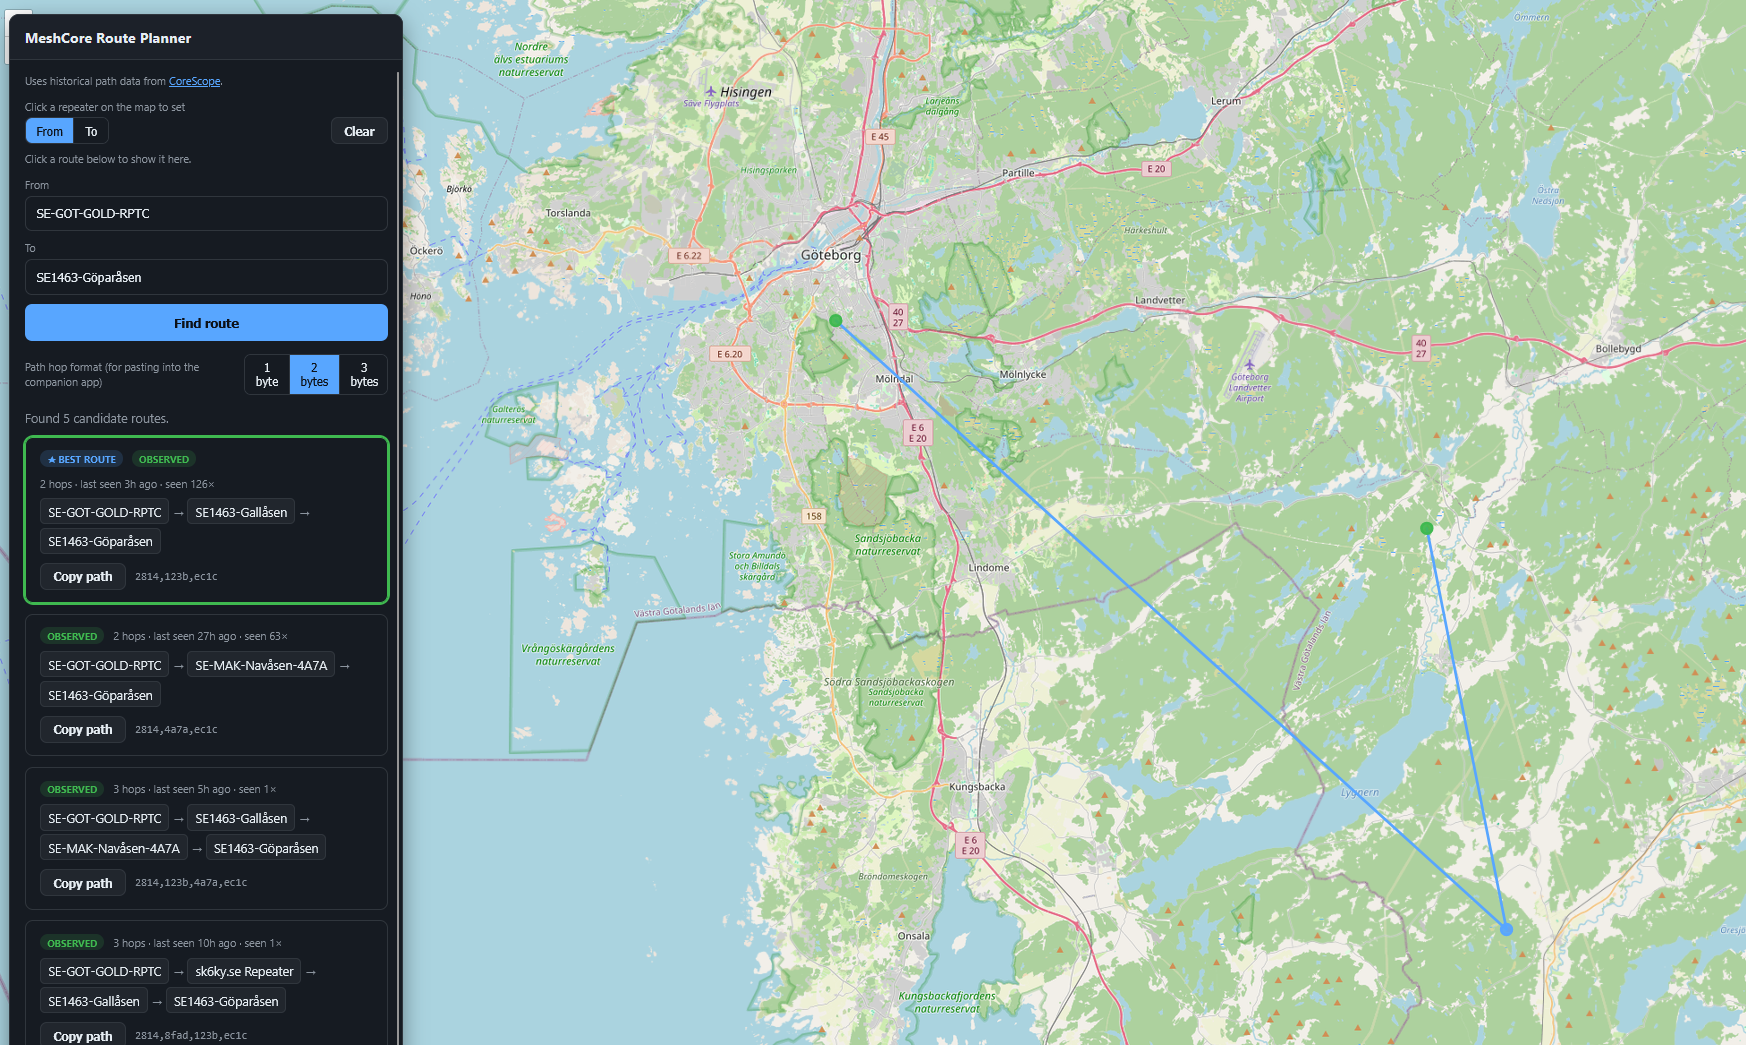
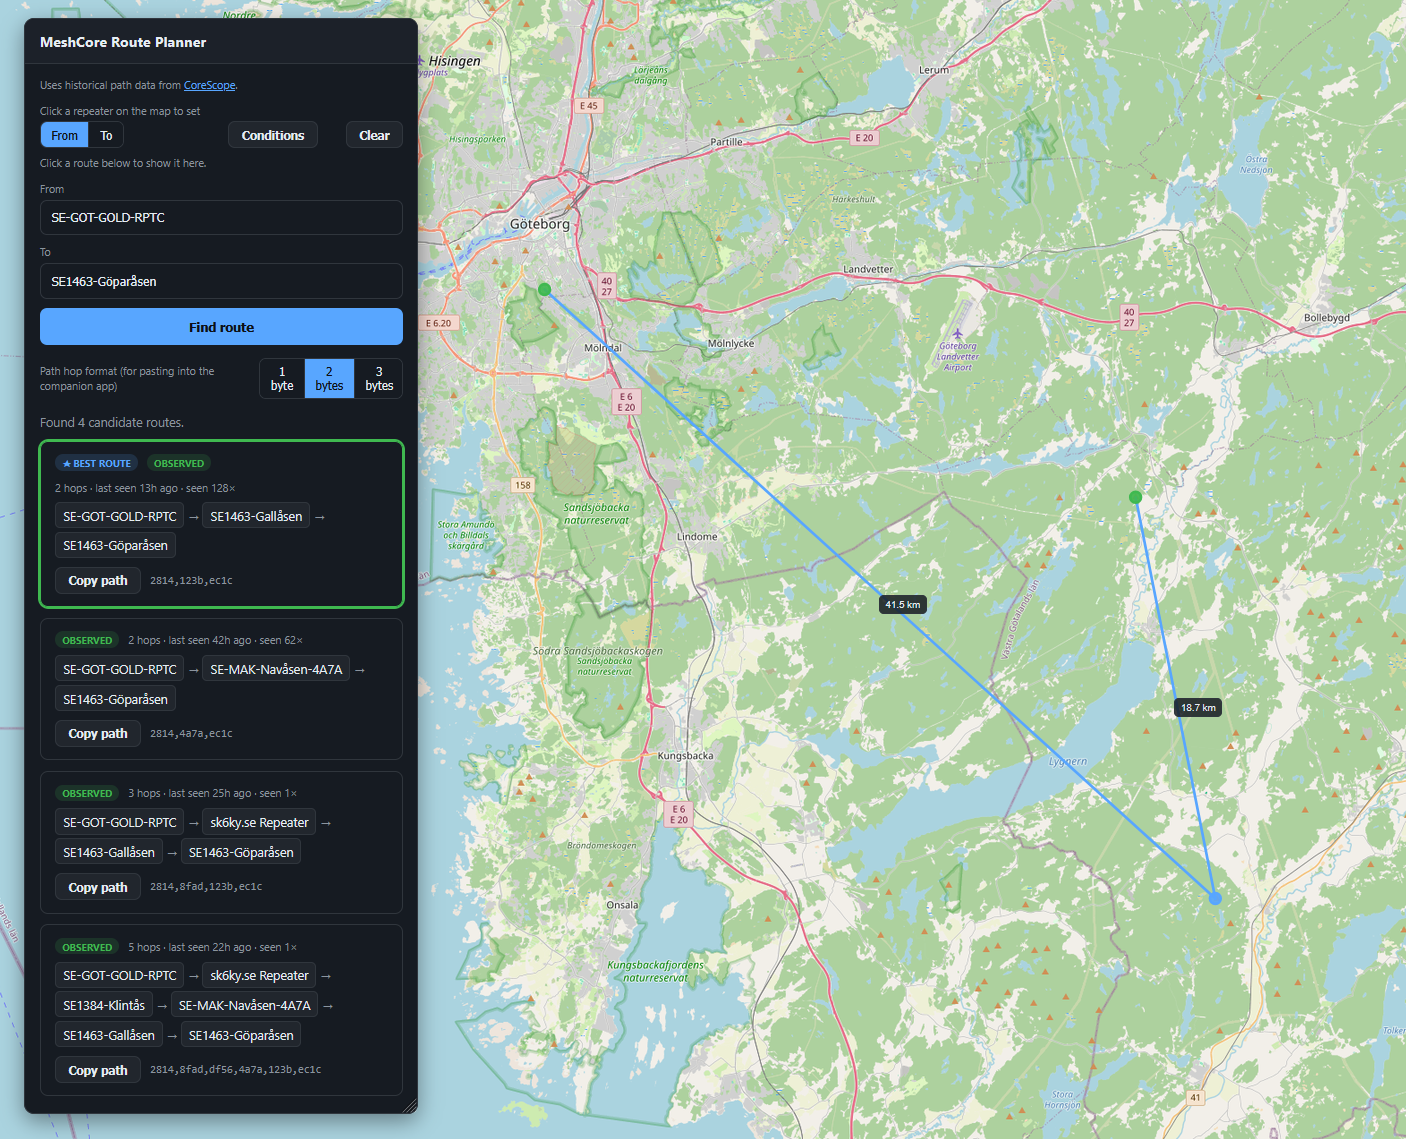
Added conditions screen + text

diff --git a/README.md b/README.md
@@ -8,9 +8,9 @@ A found route can be exported as a comma-separated hex-prefix string, ready to p
 
 ## Screenshots
 
-| Overview map | Pick From / To | Route results |
-|---|---|---|
-| ![Overview map with all repeaters](img/Screen1.png) | ![Picking a From and To repeater on the map](img/Screen2.png) | ![Candidate routes with the best one highlighted and drawn on the map](img/Screen3.png) |
+| Overview map | Pick From / To | Route results | Conditions (experimental) |
+|---|---|---|---|
+| ![Overview map with all repeaters](img/Screen1.png) | ![Picking a From and To repeater on the map](img/Screen2.png) | ![Candidate routes with the best one highlighted and drawn on the map, including segment distances](img/Screen3.png) | ![The experimental Atmospheric Conditions panel for the From/To nodes](img/Screen4.png) |
 
 ## Features
 
@@ -23,6 +23,7 @@ A found route can be exported as a comma-separated hex-prefix string, ready to p
 - **Copy path** — exports the full hop chain (origin through destination) as 1/2/3-byte hex prefixes for the MeshCore companion app.
 - **Node info popup** — click a hop or map marker to see name, role, public key, coordinates, first/last seen, and a link to the node's CoreScope page.
 - **Cancellable search** — a Stop button aborts an in-progress route search, client and server side.
+- **Atmospheric conditions (experimental)** — a movable "Conditions" panel showing live weather for the From/To nodes, converted into a rough radio-refractivity hint: a ducting-likelihood badge and an effective k-factor / radio horizon estimate vs. the standard atmosphere. This is self-computed from free weather data, not a validated propagation forecast — treat it as a rough, experimental hint, not a confirmed effect on any specific route.
 - Server-side caching of CoreScope API calls to stay gentle on the third-party API.
 
 ## Prerequisites
